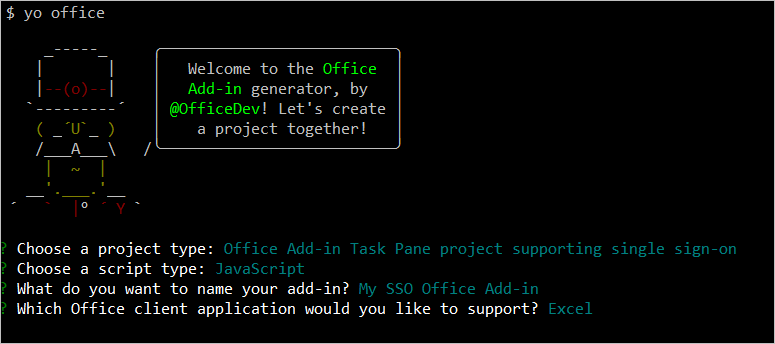
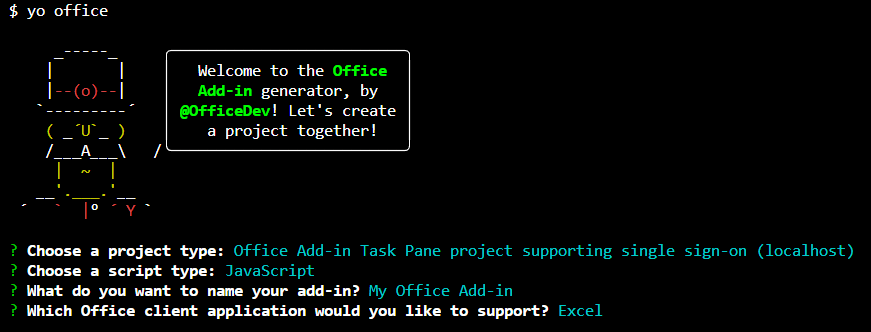
[All hosts](SSO) Restore the SSO quickstart (#3626)
* restore sso quickstart

* Integrate review feedback.

* rename sample

* Apply suggestions from code review

* Apply suggestions from code review

* Use accessible color theme

diff --git a/docs/quickstarts/sso-quickstart.md b/docs/quickstarts/sso-quickstart.md
@@ -1,0 +1,158 @@
+---
+title: Single sign-on (SSO) quick start
+description: Use the Yeoman generator to build a Node.js Office Add-in that uses single sign-on.
+ms.date: 09/07/2022
+ms.prod: non-product-specific
+ms.localizationpriority: high
+---
+
+# Single sign-on (SSO) quick start
+
+In this article, you'll use the Yeoman generator for Office Add-ins to create an Office Add-in for Excel, Outlook, Word, or PowerPoint that uses single sign-on (SSO).
+
+> [!NOTE]
+> The SSO template provided by the Yeoman generator for Office Add-ins only runs on localhost and cannot be deployed. If you're building a new Office Add-in with SSO for production purposes, follow the instructions in [Create a Node.js Office Add-in that uses single sign-on](../develop/create-sso-office-add-ins-nodejs.md).
+
+## Prerequisites
+
+- [Node.js](https://nodejs.org) (the latest [LTS](https://nodejs.org/about/releases) version).
+
+- The latest version of [Yeoman](https://github.com/yeoman/yo) and the [Yeoman generator for Office Add-ins](../develop/yeoman-generator-overview.md). To install these tools globally, run the following command via the command prompt.
+
+    ```command&nbsp;line
+    npm install -g yo generator-office
+    ```
+
+    [!include[note to update Yeoman generator](../includes/note-yeoman-generator-update.md)]
+
+- If you're using a Mac and don't have the Azure CLI installed on your machine, you must install [Homebrew](https://brew.sh/). The SSO configuration script that you'll run during this quick start will use Homebrew to install the Azure CLI, and will then use the Azure CLI to configure SSO within Azure.
+
+## Create the add-in project
+
+> [!TIP]
+> The Yeoman generator can create an SSO-enabled Office Add-in for Excel, Outlook, Word, or PowerPoint with script type of JavaScript or TypeScript. The following instructions specify `JavaScript` and `Excel`, but you should choose the script type and Office client application that best suits your scenario.
+
+[!include[Yeoman generator create project guidance](../includes/yo-office-command-guidance.md)]
+
+- **Choose a project type:** `Office Add-in Task Pane project supporting single sign-on (localhost)`
+- **Choose a script type:** `JavaScript`
+- **What do you want to name your add-in?** `My Office Add-in`
+- **Which Office client application would you like to support?** Choose `Excel`, `Outlook`, `Word`, or `Powerpoint`.
+
+:::image type="content" source="../images/yo-office-sso-excel.png" alt-text="Prompts and answers for the Yeoman generator in a command line interface.":::
+
+After you complete the wizard, the generator creates the project and installs supporting Node components.
+
+[!include[Yeoman generator next steps](../includes/yo-office-next-steps.md)]
+
+## Explore the project
+
+The add-in project that you've created with the Yeoman generator contains code for an SSO-enabled task pane add-in.
+
+[!include[project structure for an SSO-enabled add-in created with the Yeoman generator](../includes/sso-yeoman-project-structure.md)]
+
+## Configure SSO
+
+Now that your add-in project is created and contains the code that's necessary to facilitate the SSO process, complete the following steps to configure SSO for your add-in.
+
+1. Go to the root folder of the project.
+
+    ```command&nbsp;line
+    cd "My Office Add-in"
+    ```
+
+2. Run the following command to configure SSO for the add-in.
+
+    ```command&nbsp;line
+    npm run configure-sso
+    ```
+
+    > [!WARNING]
+    > This command will fail if your tenant is configured to require two-factor authentication. In this scenario, you'll need to manually complete the Azure app registration and SSO configuration steps by following all the steps in the [Create a Node.js Office Add-in that uses single sign-on](../develop/create-sso-office-add-ins-nodejs.md) tutorial.
+
+3. A web browser window will open and prompt you to sign in to Azure. Sign in to Azure using your Microsoft 365 administrator credentials. These credentials will be used to register a new application in Azure and configure the settings required by SSO.
+
+    > [!NOTE]
+    > If you sign in to Azure using non-administrator credentials during this step, the `configure-sso` script won't be able to provide administrator consent for the add-in to users within your organization. SSO will therefore not be available to users of the add-in and they'll be prompted to sign-in.
+
+4. After you enter your credentials, close the browser window and return to the command prompt. As the SSO configuration process continues, you'll see status messages being written to the console. As described in the console messages, files within the add-in project that the Yeoman generator created are automatically updated with data that's required by the SSO process.
+
+## Test your add-in
+
+If you've created an Excel, Word, or PowerPoint add-in, complete the steps in the following section to try it. If you've created an Outlook add-in, complete the steps in the [Outlook](#outlook) section instead.
+
+### Excel, Word, and PowerPoint
+
+Complete the following steps to test an Excel, Word, or PowerPoint add-in.
+
+1. When the SSO configuration process completes, run the following command to build the project, start the local web server, and sideload your add-in in the previously selected Office client application.
+
+    [!INCLUDE [alert use https](../includes/alert-use-https.md)]
+
+    ```command&nbsp;line
+    npm start
+    ```
+
+2. When Excel, Word, or PowerPoint opens when you run the previous command, make sure you're signed in with a user account that's a member of the same Microsoft 365 organization as the Microsoft 365 administrator account that you used to connect to Azure while configuring SSO in step 3 of the [previous section](#configure-sso). Doing so establishes the appropriate conditions for SSO to succeed.
+
+3. In the Office client application, choose the **Home** tab, and then choose **Show Taskpane** to open the add-in task pane.
+
+    :::image type="content" source="../images/excel-quickstart-addin-3b.png" alt-text="Excel add-in button.":::
+
+4. At the bottom of the task pane, choose the **Get My User Profile Information** button to initiate the SSO process.
+
+5. If a dialog window appears to request permissions on behalf of the add-in, this means that SSO is not supported for your scenario and the add-in has instead fallen back to an alternate method of user authentication. This may occur when the tenant administrator hasn't granted consent for the add-in to access Microsoft Graph, or when the user isn't signed in to Office with a valid Microsoft account or Microsoft 365 Education or Work account. Choose **Accept** to continue.
+
+    ![Screenshot showing permissions requested dialog with Accept button highlighted.](../images/sso-permissions-request.png)
+
+    > [!NOTE]
+    > After a user accepts this permissions request, they won't be prompted again in the future.
+
+6. The add-in retrieves profile information for the signed-in user and writes it to the document. The following image shows an example of profile information written to an Excel worksheet.
+
+    ![Screenshot showing user profile information in Excel worksheet.](../images/sso-user-profile-info-excel.png)
+
+### Outlook
+
+Complete the following steps to try out an Outlook add-in.
+
+1. When the SSO configuration process completes, run the following command to build the project and start the local web server.
+
+    [!INCLUDE [alert use https](../includes/alert-use-https.md)]
+
+    ```command&nbsp;line
+    npm start
+    ```
+
+2. Follow the instructions in [Sideload Outlook add-ins for testing](../outlook/sideload-outlook-add-ins-for-testing.md) to sideload the add-in in Outlook. Make sure that you're signed in to Outlook with a user that's a member of the same Microsoft 365 organization as the Microsoft 365 administrator account that you used to connect to Azure while configuring SSO in step 3 of the [previous section](#configure-sso). Doing so establishes the appropriate conditions for SSO to succeed.
+
+3. In Outlook, compose a new message.
+
+4. In the message compose window, choose the **Show Taskpane** button to open the add-in task pane.
+
+    ![Screenshot showing highlighted add-in ribbon button in Outlook compose message window.](../images/outlook-sso-ribbon-button.png)
+
+5. At the bottom of the task pane, choose the **Get My User Profile Information** button to initiate the SSO process.
+
+6. If a dialog window appears to request permissions on behalf of the add-in, this means that SSO is not supported for your scenario and the add-in has instead fallen back to an alternate method of user authentication. This may occur when the tenant administrator hasn't granted consent for the add-in to access Microsoft Graph, or when the user isn't signed in to Office with a valid Microsoft account or Microsoft 365 Education or Work account. Choose **Accept** to continue.
+
+    ![Screenshot of permissions requested dialog with Accept button highlighted.](../images/sso-permissions-request.png)
+
+    > [!NOTE]
+    > After a user accepts this permissions request, they won't be prompted again in the future.
+
+7. The add-in retrieves profile information for the signed-in user and writes it to the body of the email message.
+
+    ![Screenshot showing user profile information in Outlook compose message window.](../images/sso-user-profile-info-outlook.png)
+
+## Next steps
+
+Congratulations, you've successfully created a task pane add-in that uses SSO when possible, and uses an alternate method of user authentication when SSO is not supported. To learn about customizing your add-in to add new functionality that requires different permissions, see [Customize your Node.js SSO-enabled add-in](sso-quickstart-customize.md).
+
+## See also
+
+- [Enable single sign-on for Office Add-ins](../develop/sso-in-office-add-ins.md)
+- [Customize your Node.js SSO-enabled add-in](sso-quickstart-customize.md)
+- [Create a Node.js Office Add-in that uses single sign-on](../develop/create-sso-office-add-ins-nodejs.md)
+- [Troubleshoot error messages for single sign-on (SSO)](../develop/troubleshoot-sso-in-office-add-ins.md)
+- [Using Visual Studio Code to publish](../publish/publish-add-in-vs-code.md#using-visual-studio-code-to-publish)
